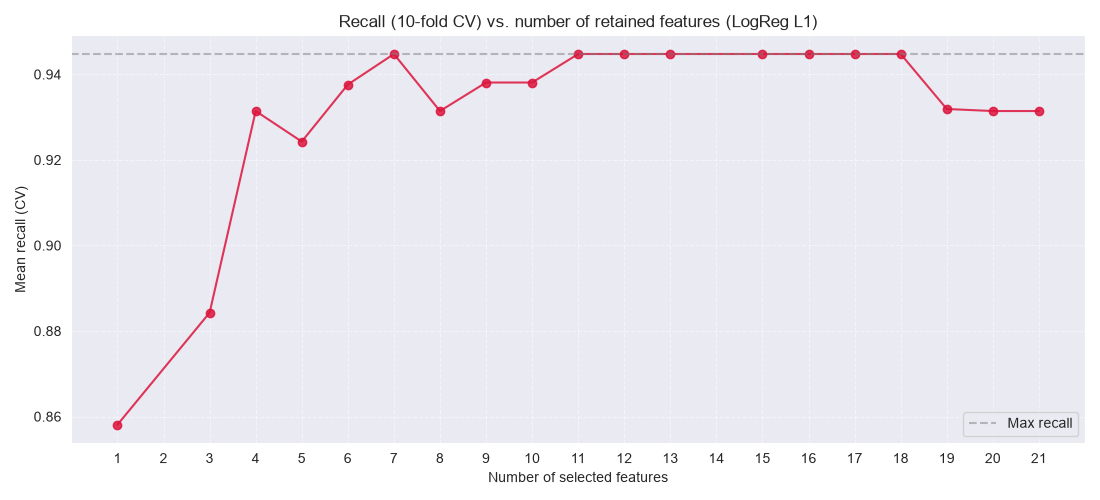
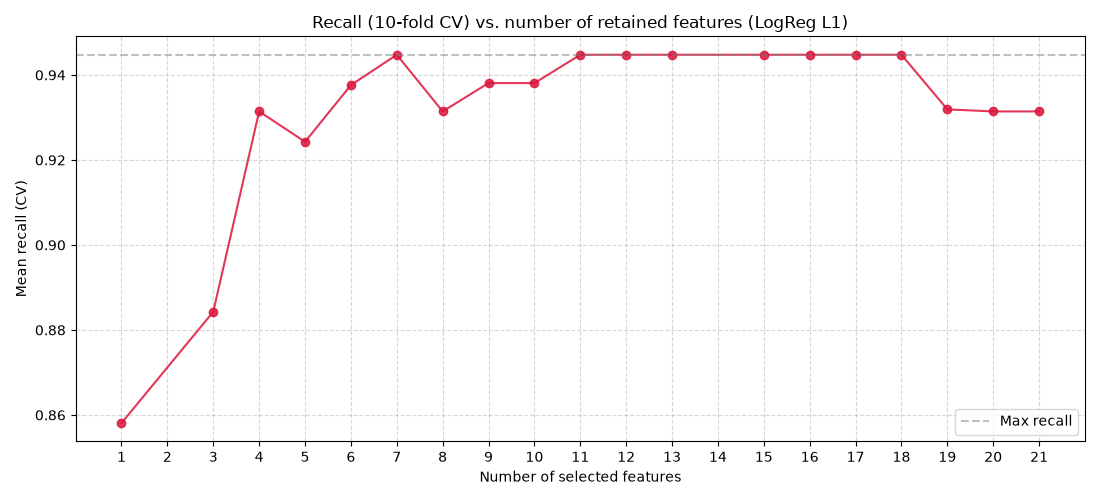
Fonctions/Scripts Feat Sel

diff --git a/01_scripts/supervised_models.py b/01_scripts/supervised_models.py
@@ -13,7 +13,7 @@ from sklearn.discriminant_analysis import LinearDiscriminantAnalysis, QuadraticD
 import numpy as np
 import pandas as pd
 from sklearn.model_selection import GridSearchCV
-
+from sklearn.model_selection import cross_validate
 
 
 def get_baseline_classifiers(random_state: int = 42) -> dict:
@@ -58,5 +58,40 @@ def tune_logreg_with_1se(X, y, param_grid, cv_folds=10, random_state=42):
     one_se_C = res.loc[res["mean_test_score"] >= one_se_floor, "param_C"].astype(float).min()
 
     return grid_logreg, res, one_se_C
+
+
+def benchmark_feature_selectors(selectors_dict, X_train, y_train, cv_folds, scoring_dict, random_state=42):
+    """Evaluate multiple feature selection methods using a baseline Logistic Regression.
+
+    Fits each selector to the training data, applies the resulting feature mask,
+    and cross-validates a baseline model on the reduced feature space. Returns a
+    DataFrame ranking the methods by a combined score of clinical performance
+    (Recall/F1/F2) and sparsity (fewer features preferred).
+    """
+    benchmark_rows = []
+    for name, selector in selectors_dict.items():
+        mask = selector.get_support()
+        cv_results = cross_validate(
+            LogisticRegression(random_state=random_state), X_train[:, mask], y_train,
+            cv=cv_folds, scoring=scoring_dict
+        )
+        benchmark_rows.append({
+            "model": name,
+            "n_features": int(mask.sum()),
+            "accuracy_mean": cv_results["test_accuracy"].mean(),
+            "precision_mean": cv_results["test_precision"].mean(),
+            "recall_mean": cv_results["test_recall"].mean(),
+            "f1_mean": cv_results["test_f1"].mean(),
+            "f2_mean": cv_results["test_f2"].mean(),
+            "roc_auc_mean": cv_results["test_roc_auc"].mean(),
+        })
+
+    df_benchmark = pd.DataFrame(benchmark_rows)
+    _ranking_metrics = ["recall_mean", "f1_mean", "f2_mean"]
+    ranks_perf = df_benchmark.set_index("model")[_ranking_metrics].rank(ascending=False)
+    ranks_feat = df_benchmark.set_index("model")["n_features"].rank(ascending=True)
+
+    df_benchmark["avg_rank_score"] = pd.concat([ranks_perf, ranks_feat], axis=1).mean(axis=1).values
+    return df_benchmark.sort_values("avg_rank_score")
 
 

diff --git a/01_scripts/preprocessing.py b/01_scripts/preprocessing.py
@@ -5,6 +5,7 @@ only (fitting on the full data would leak test-set information into training).
 
 from sklearn.model_selection import train_test_split
 from sklearn.preprocessing import StandardScaler
+import numpy as np
 
 
 def split_and_scale(dframe, feature_list: list, test_size: float = 0.3,
@@ -22,3 +23,19 @@ def split_and_scale(dframe, feature_list: list, test_size: float = 0.3,
     X_te_scaled = scaler_local.transform(X_te)
 
     return X_tr_scaled, X_te_scaled, y_tr, y_te, scaler_local
+
+
+def remove_collinear_features(df_train, feature_list, threshold=0.95):
+    """Remove highly correlated features based on a Pearson correlation threshold.
+
+    Computes the correlation matrix on the training set, identifies pairs with
+    absolute correlation above the threshold, and drops one feature from each pair
+    to reduce multicollinearity before model training.
+    """
+    corr_matrix = df_train[feature_list].corr().abs()
+    upper = corr_matrix.where(np.triu(np.ones(corr_matrix.shape), k=1).astype(bool))
+    collinear_features = [col for col in upper.columns if any(upper[col] > threshold)]
+    features_clean = [f for f in feature_list if f not in collinear_features]
+
+    return features_clean, collinear_features
+

diff --git a/01_scripts/plots.py b/01_scripts/plots.py
@@ -218,6 +218,27 @@ def plot_bootstrap_coefficients(coef_table, out_path):
     fig.savefig(out_path)
     plt.show()
 
+
+def plot_feature_selection_plateau(sorted_n, sorted_recall, cv_folds, out_path):
+    """Plot cross-validated recall against the number of selected features.
+
+    Visualizes the trade-off between model sparsity and diagnostic sensitivity
+    during L1-regularization sweeping, helping to identify the 'plateau' where
+    adding more features yields diminishing clinical returns.
+    """
+    plt.figure(figsize=(11, 5))
+    plt.plot(sorted_n, sorted_recall, marker='o', color='crimson', alpha=0.85)
+    plt.axhline(max(sorted_recall), linestyle='--', color='grey', alpha=0.5, label="Max recall")
+    plt.title(f"Recall ({cv_folds}-fold CV) vs. number of retained features (LogReg L1)")
+    plt.xlabel("Number of selected features")
+    plt.ylabel("Mean recall (CV)")
+    plt.xticks(np.arange(min(sorted_n), max(sorted_n) + 1, 1))
+    plt.legend()
+    plt.grid(True, linestyle='--', alpha=0.5)
+    plt.tight_layout()
+    plt.savefig(out_path)
+    plt.show()
+
 # Unsupervised models 
 
 def plot_silhouette_by_k(results: pd.DataFrame, out_path: str,
